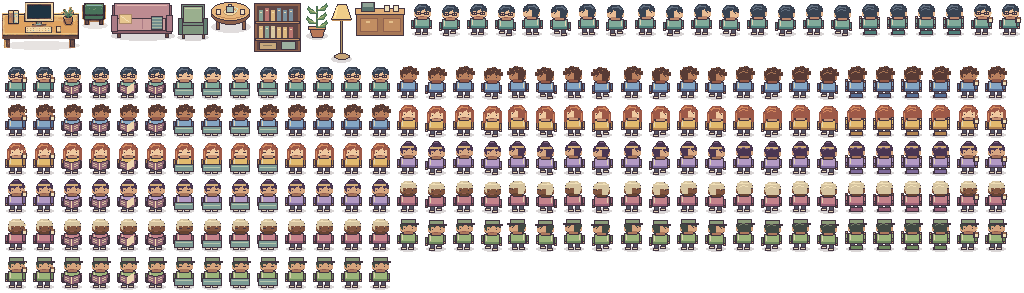
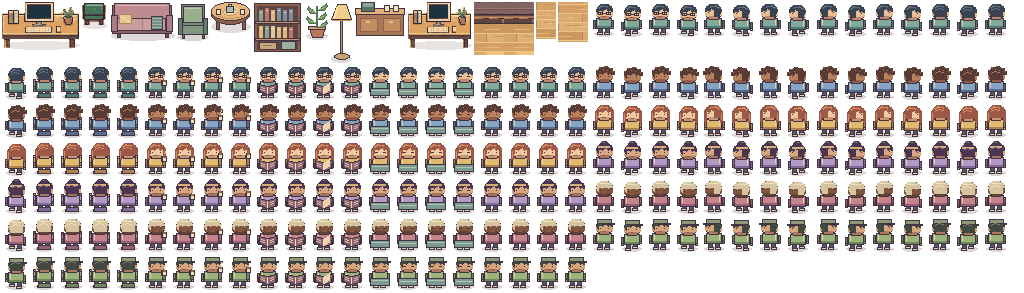
修复阁楼新增工位靠墙布局并留空中央通路
将三个新增工位移至后墙与前沿楼梯两侧，保留同款桌椅样式并适配墙边空隙。按占用移除盆栽、更新寻路与休息点，保护楼梯、沙发、书架、窗及挂画。

增加中央留白、全工位通路连通和非所属工位遮挡回归；更新六人全部干活与原配置恢复截图。检测、办公室、标签、天气、动态人数、私人小站及像素截图检查全部通过；工具配置逐字节恢复，8889 隐藏服务保留。

Changed region(s): [[0.0, 0.0, 1.0, 1.0]]

diff --git a/static/office.js b/static/office.js
@@ -34,12 +34,15 @@
       { seat: { x: 96, y: 118 }, screen: { x: 84, y: 66, w: 23, h: 13 } },
       { seat: { x: 384, y: 118 }, screen: { x: 372, y: 66, w: 23, h: 13 } },
       { seat: { x: 406, y: 237 }, screen: { x: 394, y: 184, w: 23, h: 13 } },
-      ...[176, 260, 344].map(x => ({ seat: { x, y: 179 },
-        screen: { x: x - 12, y: 127, w: 23, h: 13 },
-        furniture: { x: x - 38, y: 124, w: 78, h: 63 },
-        block: { x: x - 38, y: 138, w: 77, h: 27 } })),
+      // Back wall, then the two front-edge bays flanking (not blocking) stairs.
+      ...[{ x: 222, y: 63 }, { x: 147, y: 185 }, { x: 301, y: 185 }].map(p => ({
+        seat: { x: p.x + 31, y: p.y + 55 },
+        screen: { x: p.x + 22, y: p.y + 3, w: 18, h: 13 },
+        furniture: { ...p, w: 64, h: 63 }, sprite: 'desk-wall',
+        block: { x: p.x, y: p.y + 14, w: 63, h: 27 } })),
     ];
     const desks = actors.map(a => ({ ...slots[a.slot], id: a.id, slot: a.slot }));
+    const occupied = slot => desks.some(d => d.slot === slot);
     return {
       ...ROOM,
       desks,
@@ -50,12 +53,15 @@
         { x: 368, y: 180, w: 77, h: 61 }, // original desks and chairs
         { x: 13, y: 151, w: 20, h: 54 }, // floor lamp
         { x: 30, y: 173, w: 80, h: 70 }, { x: 114, y: 183, w: 31, h: 45 },
-        { x: 197, y: 207, w: 97, h: 47 }, // stairs and flanking plants
+        { x: 215, y: 207, w: 53, h: 47 }, // stairs stay clear all the way to the opening
+        ...(!occupied(4) ? [{ x: 194, y: 210, w: 21, h: 37 }] : []),
+        ...(!occupied(5) ? [{ x: 272, y: 207, w: 27, h: 40 }] : []),
         { x: 430, y: 74, w: 37, h: 65 }, { x: 177, y: 52, w: 42, h: 42 },
         { x: 90, y: 17, w: 66, h: 37 }, { x: 326, y: 19, w: 62, h: 35 },
         { x: 228, y: 20, w: 24, h: 23 }, // pendant and windows
         { x: 27, y: 76, w: 29, h: 36 }, { x: 445, y: 181, w: 24, h: 49 },
-        { x: 221, y: 40, w: 53, h: 52 }, // rear plant nook
+        { x: 289, y: 59, w: 20, h: 20 }, // rear hanging picture
+        ...(!occupied(3) ? [{ x: 221, y: 40, w: 56, h: 56 }] : []),
         ...desks.filter(d => d.furniture).map(d => d.furniture),
       ],
       blocks: [
@@ -66,18 +72,18 @@
         { x: 30, y: 174, w: 80, h: 17 },
         { x: 55, y: 211, w: 32, h: 20 },
         { x: 13, y: 158, w: 16, h: 47 },
-        { x: 197, y: 230, w: 17, h: 15 },
+        ...(!occupied(4) ? [{ x: 197, y: 230, w: 17, h: 15 }] : []),
         { x: 217, y: 219, w: 49, h: 35 },
-        { x: 274, y: 230, w: 20, h: 15 },
+        ...(!occupied(5) ? [{ x: 274, y: 230, w: 20, h: 15 }] : []),
         { x: 446, y: 207, w: 20, h: 22 },
         ...desks.filter(d => d.block).map(d => d.block),
       ],
       spots: [
         { x: 62, y: 208, action: 'sleep' }, { x: 94, y: 202, action: 'sleep' },
-        { x: 92, y: 242, action: 'tea' }, { x: 174, y: 225, action: 'tea' },
-        { x: 132, y: 215, action: 'read' }, { x: 310, y: 225, action: 'read' },
-        { x: 310, y: 244, action: 'read' }, { x: 350, y: 225, action: 'tea' },
-        { x: 42, y: 148, action: 'tea' },
+        { x: 92, y: 242, action: 'tea' }, { x: 174, y: 168, action: 'tea' },
+        { x: 132, y: 215, action: 'read' }, { x: 310, y: 168, action: 'read' },
+        { x: 218, y: 168, action: 'read' }, { x: 350, y: 168, action: 'tea' },
+        { x: 70, y: 151, action: 'tea' },
       ],
     };
   }
@@ -86,9 +92,12 @@
     const c=scene.getContext('2d');c.imageSmoothingEnabled=false;
     // The supplied PNG is an exact 4x nearest-neighbor enlargement of this grid.
     c.drawImage(background,0,0,ROOM.w,ROOM.h);
+    if(layout.desks.some(d=>d.slot===3))sprite('clear-rear-plants',220,43,c);
+    if(layout.desks.some(d=>d.slot===4))sprite('clear-stair-plant',194,210,c);
+    if(layout.desks.some(d=>d.slot===5))sprite('clear-right-plant',270,207,c);
     for(const d of layout.desks)if(d.furniture) {
       sprite('chair',d.seat.x-13,d.seat.y-19,c);
-      sprite('desk',d.furniture.x,d.furniture.y,c);
+      sprite(d.sprite,d.furniture.x,d.furniture.y,c);
     }
     weather=AtticWeather.create(scene);
   }

diff --git a/scripts/draw_assets.py b/scripts/draw_assets.py
@@ -138,6 +138,20 @@ def attic_furniture():
          (104,117),(104,121),(100,121),(100,118),(90,118),
          (90,121),(85,121),(85,117),(83,115),(83,102),(85,102)],
     ], (0, 20, 25, 26))
+    # A narrower version of the same wood/monitor art fits the wall bays. Keep
+    # chairs and residents at their original size; all output remains native pixels.
+    sprites['desk-wall'] = sprites['desk'].resize((64, 48), Image.Resampling.NEAREST)
+
+    # Only the plant nooks needed by the new seats are cleared. These patches
+    # use clean wall/floor pixels at the same height, leaving the source PNG intact.
+    rear = native.crop((220, 43, 280, 96))
+    for y in range(53):
+        for x in range(60):
+            source_x = 281 + x % 15 if y < 17 else 312 + x % 30
+            rear.putpixel((x, y), native.getpixel((source_x, y + 43)))
+    sprites['clear-rear-plants'] = rear
+    sprites['clear-stair-plant'] = native.crop((156, 210, 176, 247))
+    sprites['clear-right-plant'] = native.crop((156, 207, 186, 247))
 
 PALETTES = [
     dict(id='moss',hair='#394352',highlight='#637080',shirt='#81aa9a',shade='#4d7d78',skin='#e9bd94',shadow='#bd886c',style='glasses'),

diff --git a/docs/desk-layout-research.md b/docs/desk-layout-research.md
@@ -16,27 +16,35 @@
 ## 原画面的问题
 
 - 原三张桌子属于阁楼背景：暖木纹、偏棕的弱轮廓、米色电脑、墨绿椅垫。新增工位来自另一套手绘图集，紫灰硬描边、屏幕与椅子的比例不同，形成明显的“贴纸”感。
-- 中央横排的位置基本有空间，但旧素材的桌腿、椅背和阴影不对应背景家具，单纯挪位置不能解决风格差异。
+- 中央横排即使没有碰到原家具，也占用了房间主要通路；用户已明确否决。统一素材后仍须把新增工位移到墙边。
 - 原 `attic-six.png` 实际只配置了两个假工具，共五人；本次必须用三个假工具重新验收六人容量。
 - 旧标签避让仅涵盖人物和新增工位，没有完整保护背景中的灯、书架、楼梯和原桌。
 
 ## 实装方案
 
-1. **同款家具**：以背景原生 480×270 网格中的左上桌椅为来源，在素材构建脚本中用透明轮廓提取桌面、电脑、书、盆栽、桌腿及椅子。保持原像素颜色与尺寸，家具以外透明，落地阴影单独绘制。背景 PNG 本身不改。
-2. **成组与留白**：第 4–6 人继续使用中央同向横排，座位为 `(176,179)`、`(260,179)`、`(344,179)`，间距 84 原生像素。保持原三人的席位、外观和背景家具位置。
+1. **同款家具**：以背景原生 480×270 网格中的左上桌椅为来源，在素材构建脚本中用透明轮廓提取桌面、电脑、书、盆栽、桌腿及椅子。新增桌面以最近邻收窄至 64 原生像素，保留同款木纹和电脑样式，椅子与人物尺寸不变；家具以外透明，落地阴影单独绘制。背景 PNG 本身不改。
+2. **靠墙与留白**：第 4–6 人分别坐在后墙中间 `(253,118)`、前沿楼梯左侧 `(178,240)`、前沿楼梯右侧 `(332,240)`；桌子左上角分别为 `(222,63)`、`(147,185)`、`(301,185)`。移除相应占位的后墙植物角与楼梯侧盆栽，并同步移除盆栽碰撞；工具删除后恢复原景。中央 `(145,127,222,57)` 区域不放新增家具，楼梯口连通全部座位和休息点；原三人的席位、外观和其余背景家具位置保留。
 3. **容量与空位**：席位由配置绑定，只有对应工具存在才画新增桌椅；工具空闲时桌椅保留、人去休息。删配置后才移除该席位家具。没有工具的预留席位保持原来的木地板。
-4. **空间约束**：新增家具、椅子及行走占地统一测量；楼梯、沙发、落地灯、书架、窗、吊灯和绿植使用保护区域。标签也避让家具；不能用标签遮住楼梯来换取排版空间。
+4. **空间约束**：新增家具、椅子及行走占地统一测量；楼梯、沙发、落地灯、书架、窗、挂画、吊灯和保留的绿植使用保护区域。标签也避让家具；不能用标签遮住楼梯来换取排版空间。休息点避开前沿新工位，回归测试从楼梯口执行网格搜索，检查全部座位及休息点可达。
 5. **像素与光线**：沿用原生整数坐标、最近邻显示和 1920×1080 下的 4 倍整数放大。新家具进入同一场景再接受现有天气光线，避免成为独立发亮的一层。
 
 ## 验收
 
 - 原背景文件与选定参考图保持逐字节一致；原三席的坐标、外观和正常三人工况保持原有行为。
 - 现有检测、办公室、标签、天气、动态人数、截图及私人小站入口检查均执行；新增六人工位保护区、休息路径与素材透明边界检查。
-- 临时向 `config/tools.json` 加入 A/B/C 三项测试工具，以实际存在的 `explorer.exe` 检测为干活，重启真实后端后截 `preview/attic-six.png`。不用浏览器伪造六人接口。
+- 临时向 `config/tools.json` 加入 A/B/C 三项测试工具，并给原三工具临时追加同样的 `explorer.exe` 进程规则，重启真实后端后确认六人全部干活，再截 `preview/attic-six.png`。不用浏览器伪造六人接口；测试后原三工具的临时规则也随原始字节一起恢复。
 - 保存原始配置字节，验收后原样恢复并核对 SHA-256，再次重启，截正常状态 `preview/attic-work.png`。两图为 1920×1080；只在截图浏览器固定晴天时刻以便核对家具，生产时钟不变。
 - 后端隐藏窗口运行且 `127.0.0.1:8889` 可用；只做本地简体中文 Git 提交，不提交 `preview/attic-bg-1.png`。
 
-## 本次实测结果
+## 本轮靠墙布局实测结果
+
+- 检测回归（9 项）、办公室与供应商场景、标签、天气时钟、天气渲染、动态人数及真实私人小站入口测试全部通过。
+- 真实临时配置的六个工具全部返回 `working`，六人均已落座敲键盘、屏幕亮起；`--live6` 与恢复后的 `--live3` 均通过，A/B/C 中文名称已视觉核对。
+- 四张最终截图均为 1920×1080；`attic-idle` / `attic-work` / `attic-weather` / `attic-six` 分别通过 116460 / 116400 / 116202 / 114056 个 4×4 像素块检查。中央无新增桌椅，标签、人物及非所属工位无交叠，楼梯连通全部工位与休息点。
[1 lines of base64/hex data omitted]
+- 恢复后状态接口仅含原三工具，健康检查 `ok=true`；服务为隐藏的 `pythonw.exe`，窗口句柄为 0，仍只监听 `127.0.0.1:8889`。
+
+## 上轮素材统一的历史实测结果（7150ad9，布局未获验收）
 
 - 检测回归 `test_detectors.py`（9 项）、`verify-office.cjs`、`verify-labels.cjs`、`weather-clock.cjs`、`verify-weather.cjs`、`verify-dynamic.cjs`、真实私人小站 `verify-site.cjs` 全部通过；`provider_scenarios.py` 由办公室测试调用。
 - `--live6` 实测六个角色，后三人均为 `working / type / monitorOn=true`；原三工具保留真实状态。`--live3` 在配置恢复及重启后通过。
